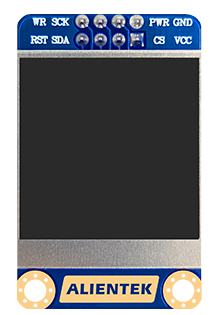
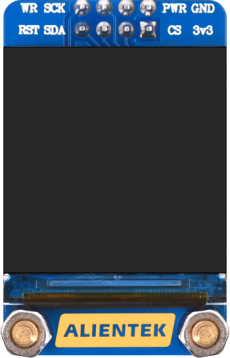
8/11

diff --git a/zdyz_docs/modules/lcd/1.3-lcd.rst b/zdyz_docs/modules/lcd/1.3-lcd.rst
@@ -1,6 +1,6 @@
 
 
-1.3寸TFTLCD液晶屏240*240
+1.3寸TFTLCD液晶屏V2 240*240
 =====================================
 
 
@@ -17,14 +17,14 @@
 产品讨论帖
 ^^^^^^^^^^
 
-- 1.3寸TFTLCD液晶屏模块240*240产品讨论贴: http://www.openedv.com/thread-291577-1-1.html
+- 1.3寸TFTLCD液晶屏V2模块240*240产品讨论贴: http://www.openedv.com/thread-329015-1-1.html
 
 
 
 产品图片
 --------
 
-- 1.3寸TFTLCD液晶屏模块240*240主图如下所示
+- 1.3寸TFTLCD液晶屏V2模块240*240主图如下所示
 
 .. _pic_major_1_3TFTLCD:
 
@@ -32,7 +32,7 @@
 
 
    
-  1.3寸TFTLCD液晶屏模块240*240实物图正面
+  1.3寸TFTLCD液晶屏V2模块240*240实物图正面
 
 
 
@@ -42,7 +42,7 @@
 
 
    
-  1.3寸TFTLCD液晶屏模块240*240实物图背面
+  1.3寸TFTLCD液晶屏V2模块240*240实物图背面
 
 
 
